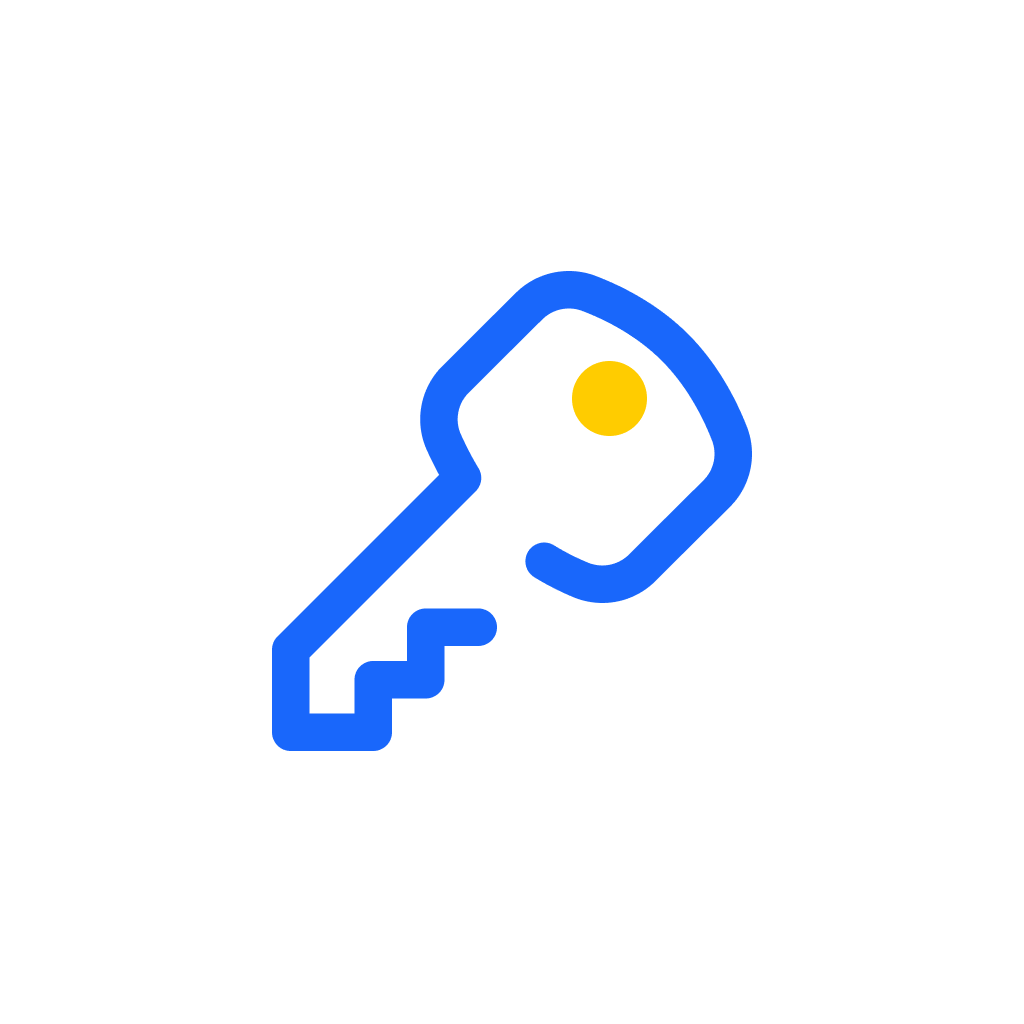
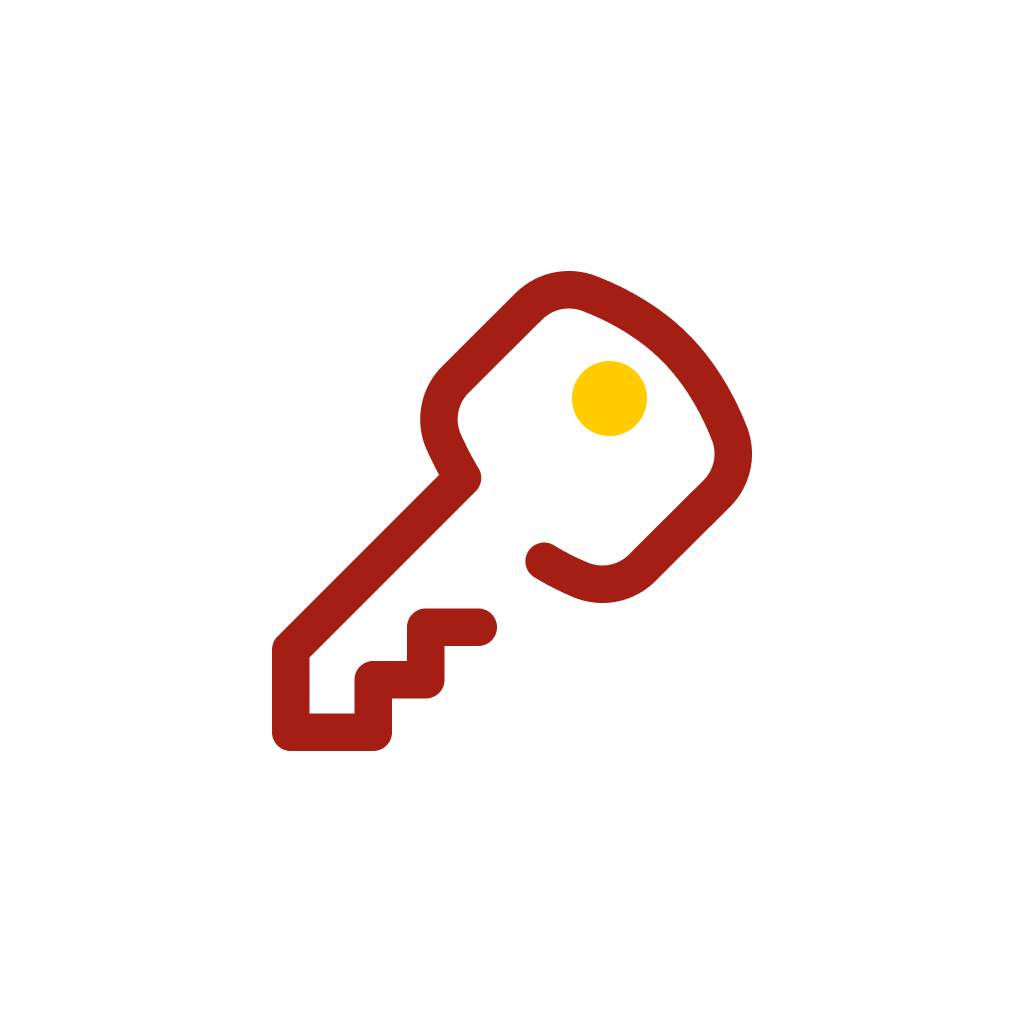
style: updates project layout

Changed region(s): [[0.25, 0.25, 0.75, 0.75]]

diff --git a/src/components/Header/index.tsx b/src/components/Header/index.tsx
@@ -36,7 +36,7 @@ export function Header({ user }: HeaderProps) {
       style={{
         ...(user
           ? {
-            backgroundColor: '#1967FB'
+            backgroundColor: '#6c0000'
           }
           : {
             backgroundColor: '#FFFFFF'
@@ -72,7 +72,7 @@ export function Header({ user }: HeaderProps) {
           <BackButton onPress={goBack}>
             <Icon
               name="chevron-left"
-              color="#1967FB"
+              color="#850000"
               size={28}
             />
           </BackButton>

diff --git a/src/screens/Home/index.tsx b/src/screens/Home/index.tsx
@@ -71,8 +71,8 @@ export function Home() {
     <>
       <Header
         user={{
-          name: 'Rocketseat',
-          avatar_url: 'https://i.ibb.co/ZmFHZDM/rocketseat.jpg'
+          name: 'Roberto',
+          avatar_url: 'https://avatars.githubusercontent.com/robertofortes23'
         }}
       />
       <Container>

diff --git a/src/screens/RegisterLoginData/index.tsx b/src/screens/RegisterLoginData/index.tsx
@@ -49,8 +49,6 @@ export function RegisterLoginData() {
 
     const dataKey = '@savepass:logins';
 
-    // Save data on AsyncStorage and navigate to 'Home' screen
-
     const response = await AsyncStorage.getItem(dataKey);
     const parsedData = JSON.parse(response) || [];
 

diff --git a/src/components/Header/styles.ts b/src/components/Header/styles.ts
@@ -56,7 +56,7 @@ export const SecondaryMessage = styled.Text`
 
 export const AddButton = styled.Pressable`
   padding: ${RFValue(14.5)}px;
-  border: 1.5px #508bfc;
+  border: 1.5px #850000;
   border-radius: 4px;
 `;
 

diff --git a/readme.md b/readme.md
@@ -1,0 +1,43 @@
+# SavePass - Gerenciador de senhas pessoais
+
+<p align="center"><img style="width: 200px"  src="https://i.imgur.com/SXxi4x8.png" />
+
+</p>
+
+> **Nota**: Aplicação desenvolvida no desafio do curso do Ignite da Rocketseat. O qual é um aplicativo para gerenciamento de senhas, no qual você pode cadastrar as senhas de sites e serviços e quando precisar lembrar, basta acessar a aplicação e procurar pela informação cadastrada.
+
+<br>
+
+# Telas da aplicação
+
+## Home
+<img style="width: 200px" align=center src="https://i.imgur.com/uM7DaS8.jpg" />
+<br>
+
+## Cadastrar senha
+<img style="width: 200px" align=center src="https://i.imgur.com/NeZIgGs.jpg" />
+<br>
+
+## Tecnologias usadas
+- [React Native](https://reactnative.dev/)
+- [Expo](https://docs.expo.dev/)
+- [TypeScript](https://www.typescriptlang.org/pt/)
+- [Styled-components](https://styled-components.com/)
+- [Yup](https://github.com/jquense/yup)
+- [Jest](https://jestjs.io/)
+
+
+## Como rodar o projeto
+1. Abra o terminal.
+2. Acessar a pasta de seus projetos. 
+3. Dentro da pasta de seus projetos, execute os comandos abaixo:
+```bash
+# Entrar na pasta do projeto 
+$ cd react-native-savepass
+
+# Para baixar as dependências do projeto
+$ yarn
+
+```
+
+Made with by [Roberto Fortes](https://github.com/robertofortes23/)
